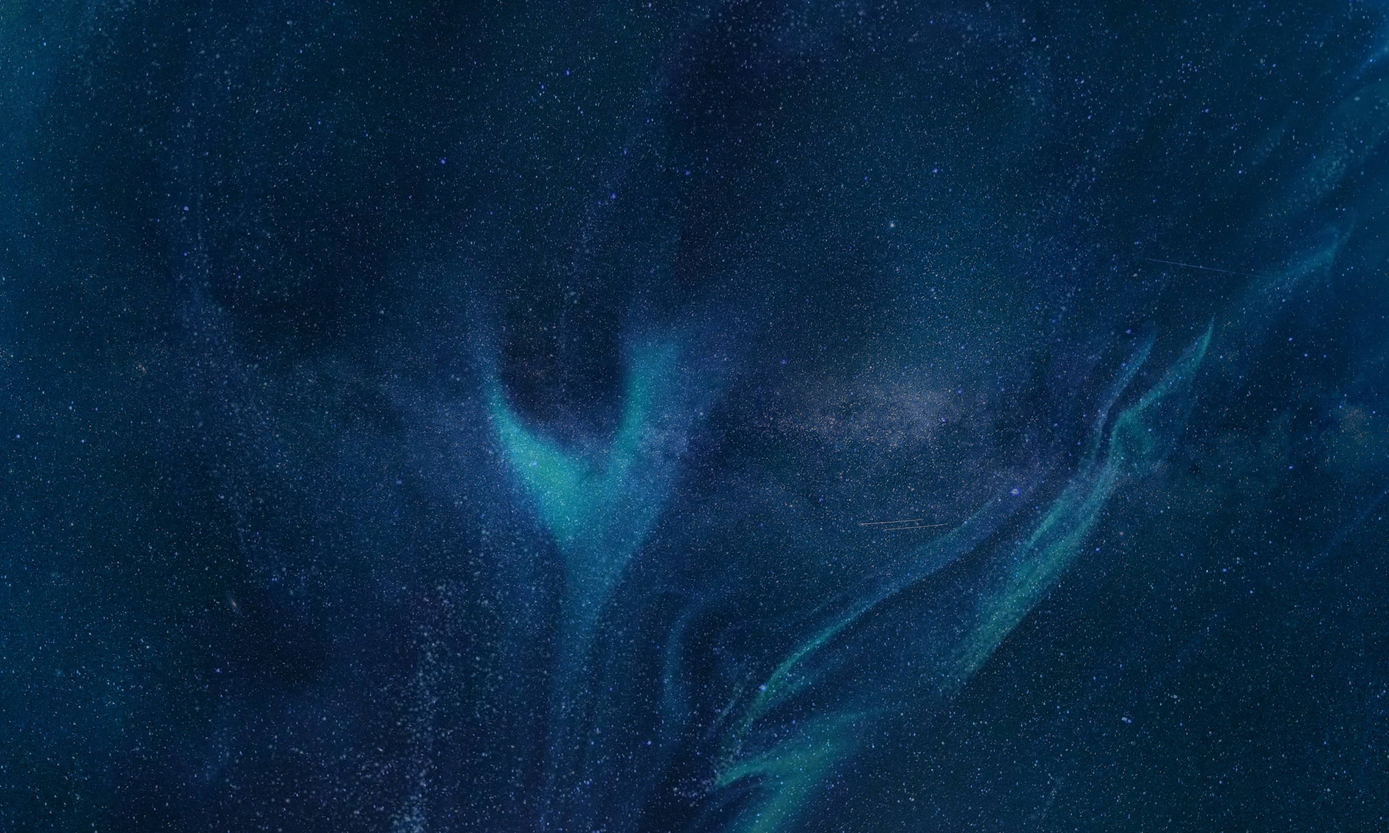
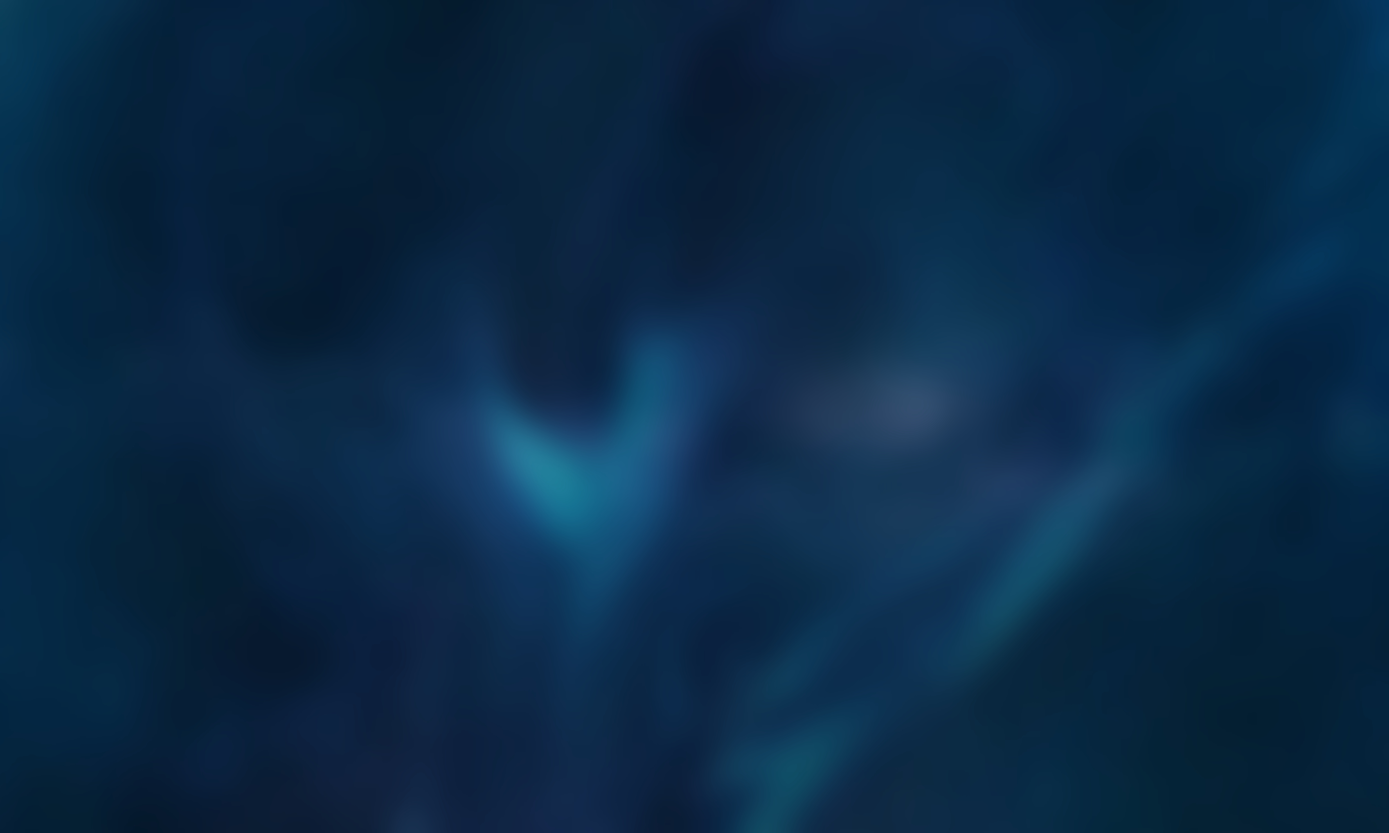
animation and background fix and var for color style

diff --git a/src/app/layout/header/header.component.css b/src/app/layout/header/header.component.css
@@ -3,7 +3,7 @@
 }
 
 mat-toolbar {
-  background-color: #5383b0c4;
+  background-color: var(--primary);
 }
 
 .title-opacity {
@@ -16,17 +16,17 @@ mat-toolbar {
   position: absolute;
   z-index: 1000;
   height: 56px;
-  background-color: #416c93;
+  background-color: #5383b0;
   animation: borderCreation 500ms linear, slidein 3s 500ms linear, borderDismiss 500ms 3500ms linear;
 }
 
 @keyframes slidein {
   from {
     width: calc(100% - 56px);
-    border-right: 4px solid white;
+    border-right: 4px solid var(--borderAnimation);
   }
   to {
-    border-right: 4px solid white;
+    border-right: 4px solid var(--borderAnimation);
     width: 0;
   }
 }
@@ -34,10 +34,10 @@ mat-toolbar {
 @keyframes slideinLarge {
   from {
     width: calc(25% - 56px);
-    border-right: 4px solid white;
+    border-right: 4px solid var(--borderAnimation);
   }
   to {
-    border-right: 4px solid white;
+    border-right: 4px solid var(--borderAnimation);
     width: 0;
   }
 }
@@ -45,13 +45,13 @@ mat-toolbar {
 @keyframes borderCreation {
   from {
     width: calc(100% - 56px);
-    border-right: 4px solid white;
+    border-right: 4px solid var(--borderAnimation);
     margin-top: 28px;
     height: 0px;
   }
   to {
     width: calc(100% - 56px);
-    border-right: 4px solid white;
+    border-right: 4px solid var(--borderAnimation);
     height: 56px;
     margin-top: 0px;
   }
@@ -60,28 +60,47 @@ mat-toolbar {
 @keyframes borderDismiss {
   from {
     width: calc(100% - 56px);
-    border-left: 4px solid white;
+    border-left: 4px solid var(--borderAnimation);
     height: 56px;
     margin-top: 0px;
+    background-color: #416b9300;
   }
   to {
     width: calc(100% - 56px);
-    border-left: 4px solid white;
+    border-left: 4px solid var(--borderAnimation);
     height: 0px;
     margin-top: 28px;
+    background-color: #416b9300;
+  }
+}
+
+@keyframes borderDismissLarge {
+  from {
+    width: calc(25% - 64px);
+    border-left: 4px solid var(--borderAnimation);
+    height: 56px;
+    margin-top: 0px;
+    background-color: #416b9300;
+  }
+  to {
+    width: calc(25% - 64px);
+    border-left: 4px solid var(--borderAnimation);
+    height: 0px;
+    margin-top: 28px;
+    background-color: #416b9300;
   }
 }
 
 @keyframes borderCreationLarge {
   from {
     width: calc(25% - 56px);
-    border-right: 4px solid white;
+    border-right: 4px solid var(--borderAnimation);
     margin-top: 28px;
     height: 0px;
   }
   to {
     width: calc(25% - 56px);
-    border-right: 4px solid white;
+    border-right: 4px solid var(--borderAnimation);
     height: 64px;
     margin-top: 0px;
   }
@@ -91,7 +110,7 @@ mat-toolbar {
   0% {
     opacity: 0;
   }
-  50% {
+  40% {
     opacity: 0;
   }
   100% {
@@ -100,12 +119,14 @@ mat-toolbar {
 }
 
 h2 {
+  line-height: normal;
   font-size: medium;
 }
 
 @media screen and (min-width: 600px) {
   .title-animation {
     height: 64px;
-    animation: borderCreationLarge 500ms linear, slideinLarge 4s 500ms 1;
+    animation: borderCreationLarge 500ms linear, slideinLarge 4s 500ms 1,
+      borderDismissLarge 500ms 4500ms 1;
   }
 }

diff --git a/src/app/layout/nav-bar/nav-bar.component.css b/src/app/layout/nav-bar/nav-bar.component.css
@@ -1,21 +1,22 @@
-.navColor{
-  background-color: #5383b0c4;
+.navColor {
+  background-color: var(--primary);
 }
 
-::ng-deep .mat-nav-list .mat-list-item:hover{
-  background-color: #8ABEEB;
+::ng-deep .mat-nav-list .mat-list-item:hover {
+  background-color: var(--accent);
 }
 
-::ng-deep .mat-nav-list .mat-list-item:focus{
-  background-color: #8ABEEB;
+::ng-deep .mat-nav-list .mat-list-item:focus {
+  background-color: var(--accent);
 }
 
-.active-link{
-  background-color: #8ABEEB;
+.active-link {
+  background-color: var(--accent);
 }
 
 /* Chrome */
-.mat-list-option:not(.mat-list-single-selected-option):not(.mat-list-item-disabled):hover, .mat-nav-list .mat-list-item:not(.mat-list-item-disabled):hover, .mat-action-list .mat-list-item:not(.mat-list-item-disabled):hover{
-  background-color: #8ABEEB;
+.mat-list-option:not(.mat-list-single-selected-option):not(.mat-list-item-disabled):hover,
+.mat-nav-list .mat-list-item:not(.mat-list-item-disabled):hover,
+.mat-action-list .mat-list-item:not(.mat-list-item-disabled):hover {
+  background-color: var(--accent);
 }
-

diff --git a/src/app/app.component.css b/src/app/app.component.css
@@ -2,25 +2,26 @@
   border: 1px solid rgba(0, 0, 0, 0.5);
 }
 
-.main_content{
+.main_content {
   width: 100%;
   height: 100%;
 }
 
-.w-320{
+.w-320 {
   width: 320px;
 }
 
-.navColor{
+.navColor {
   background-color: #5383b0c4;
 }
 
-
 .background {
-  height: 100vh;
+  margin: 0;
+  font-family: Roboto, 'Helvetica Neue', sans-serif;
+  overflow: hidden;
+  background-image: url(../assets/background.webp);
+  background-position: bottom;
+  background-repeat: no-repeat;
+  background-size: cover;
   width: 100%;
-  background: rgba(255, 255, 255, 0.2);
-  backdrop-filter: blur(8px);
 }
-
-

diff --git a/src/styles.css b/src/styles.css
@@ -9,14 +9,17 @@ body {
   height: 100%;
 }
 body {
-  margin: 0;
-  font-family: Roboto, 'Helvetica Neue', sans-serif;
-  overflow: hidden;
-  background-image: url(./assets/background.webp);
-  background-position: bottom;
-  background-repeat: no-repeat;
-  background-size: cover;
   height: 100vh;
   width: 100%;
-  backdrop-filter: blur(8px);
+  overflow: hidden;
+}
+
+:root {
+  --primary: #5383b0;
+  --secondary: #a0aec0;
+  --accent: #8abeeb;
+  --background: #fff;
+  --main: #0d0106;
+  --header: #2d3748;
+  --borderAnimation: #8abeeb;
 }

diff --git a/tailwind.config.js b/tailwind.config.js
@@ -4,7 +4,17 @@ const plugin = require('tailwindcss/plugin');
 module.exports = {
   content: ['./src/**/*.{html,ts}'],
   theme: {
-    extend: {},
+    extend: {
+      colors: {
+        primary: 'var(--primary)',
+        secondary: 'var(--secondary)',
+        main: 'var(--main)',
+        background: 'var(--background)',
+        header: 'var(--header)',
+        accent: 'var(--accent)',
+        borderAnimation: 'var(--borderAnimation)',
+      },
+    },
   },
   plugins: [
     plugin(function ({addBase, theme}) {

diff --git a/src/app/app.component.html b/src/app/app.component.html
@@ -1,6 +1,6 @@
 <app-header [clickBurger]="drawer"></app-header>
 
-<mat-drawer-container class="background h-full" [hasBackdrop]="true" autosize>
+<mat-drawer-container class="h-full background" [hasBackdrop]="true" autosize>
   <mat-drawer #drawer class="w-320 navColor" mode="side">
     <app-nav-bar></app-nav-bar>
   </mat-drawer>

diff --git a/src/app/layout/header/header.component.html b/src/app/layout/header/header.component.html
@@ -7,9 +7,9 @@
   >
     <mat-icon>menu</mat-icon>
   </button>
-  <div class="test h-full w-3/12">
+  <div class="h-full">
     <div class="title-animation h-full"></div>
-    <div class="title-opacity">
+    <div class="title-opacity pl-4">
       <h1>Corentin SANNA</h1>
       <h2>Développeur informatique</h2>
     </div>

diff --git a/src/index.html b/src/index.html
@@ -12,7 +12,6 @@
       rel="stylesheet"
     />
     <link href="https://fonts.googleapis.com/icon?family=Material+Icons" rel="stylesheet" />
-    <link href="../dist/output.css" rel="stylesheet" />
   </head>
   <body class="mat-typography">
     <app-root></app-root>

diff --git a/src/app/layout/nav-bar/nav-bar.component.ts b/src/app/layout/nav-bar/nav-bar.component.ts
@@ -5,8 +5,10 @@ import { Component, OnInit } from '@angular/core';
   templateUrl: './nav-bar.component.html',
   styleUrls: ['./nav-bar.component.css'],
 })
+
 export class NavBarComponent implements OnInit {
   showFiller = false;
+
 
   constructor() {}
 
